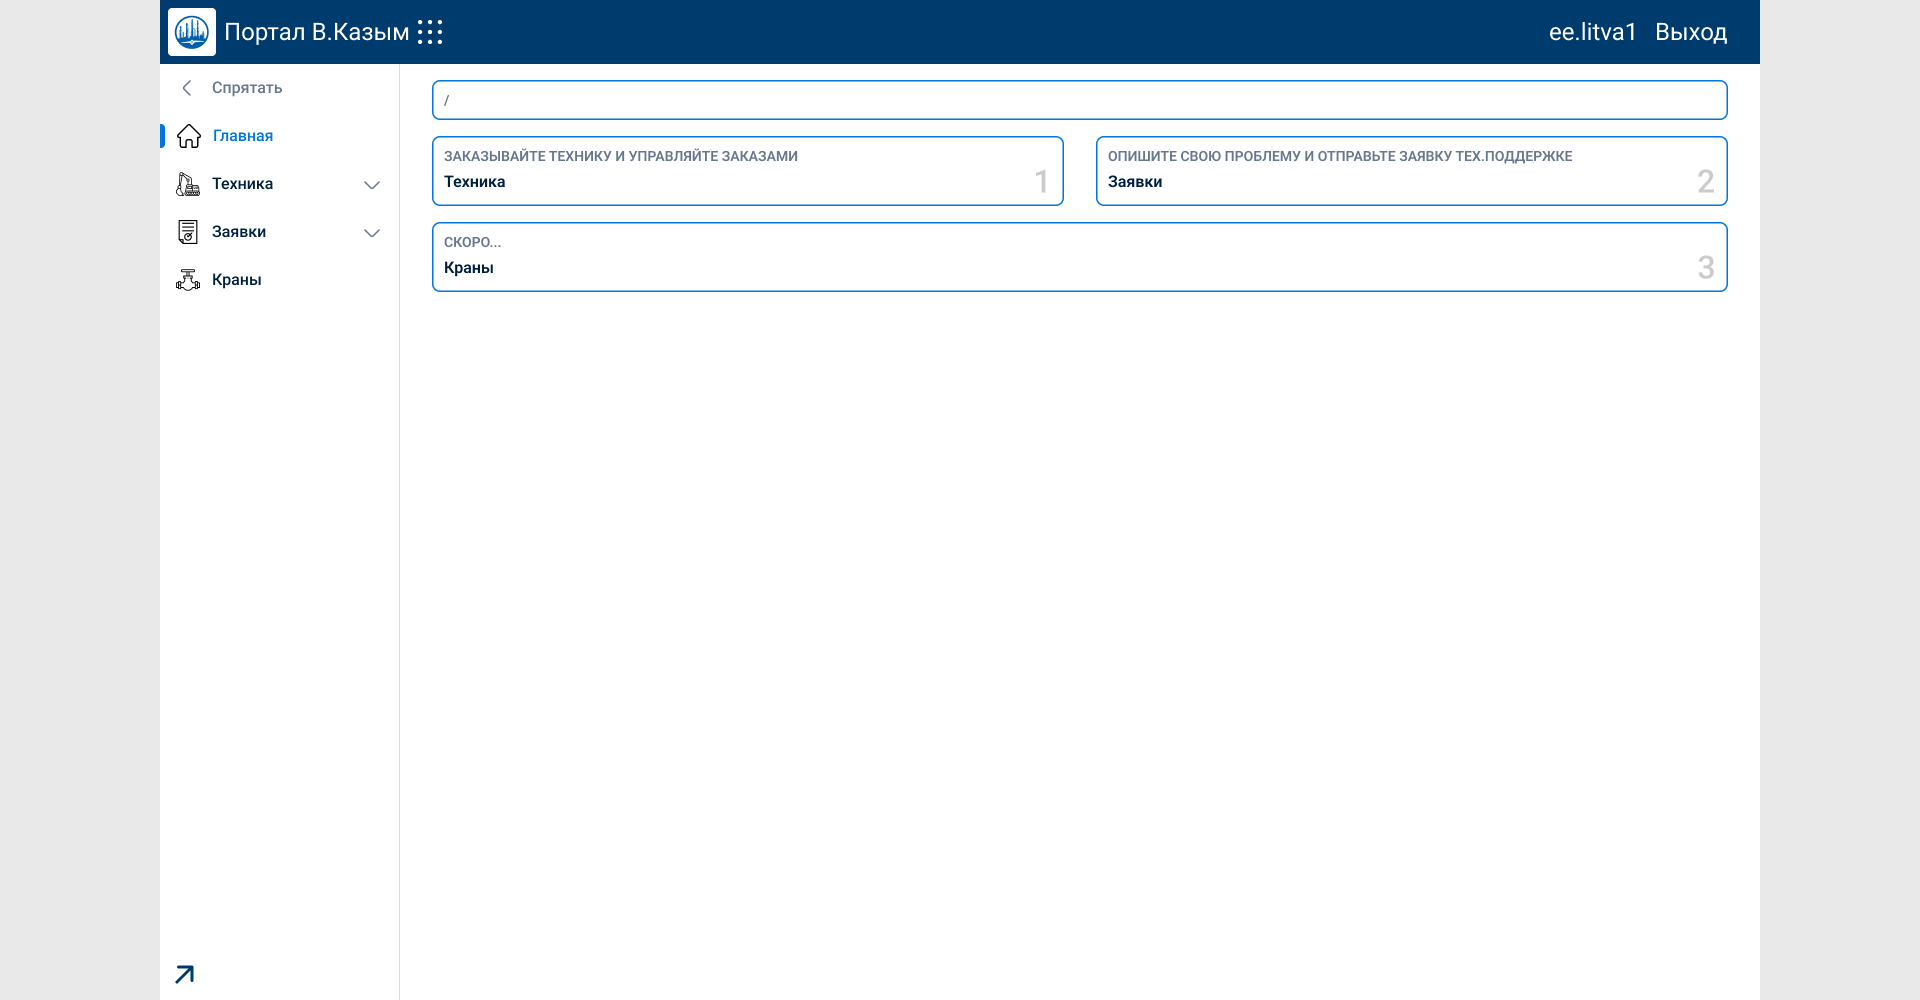
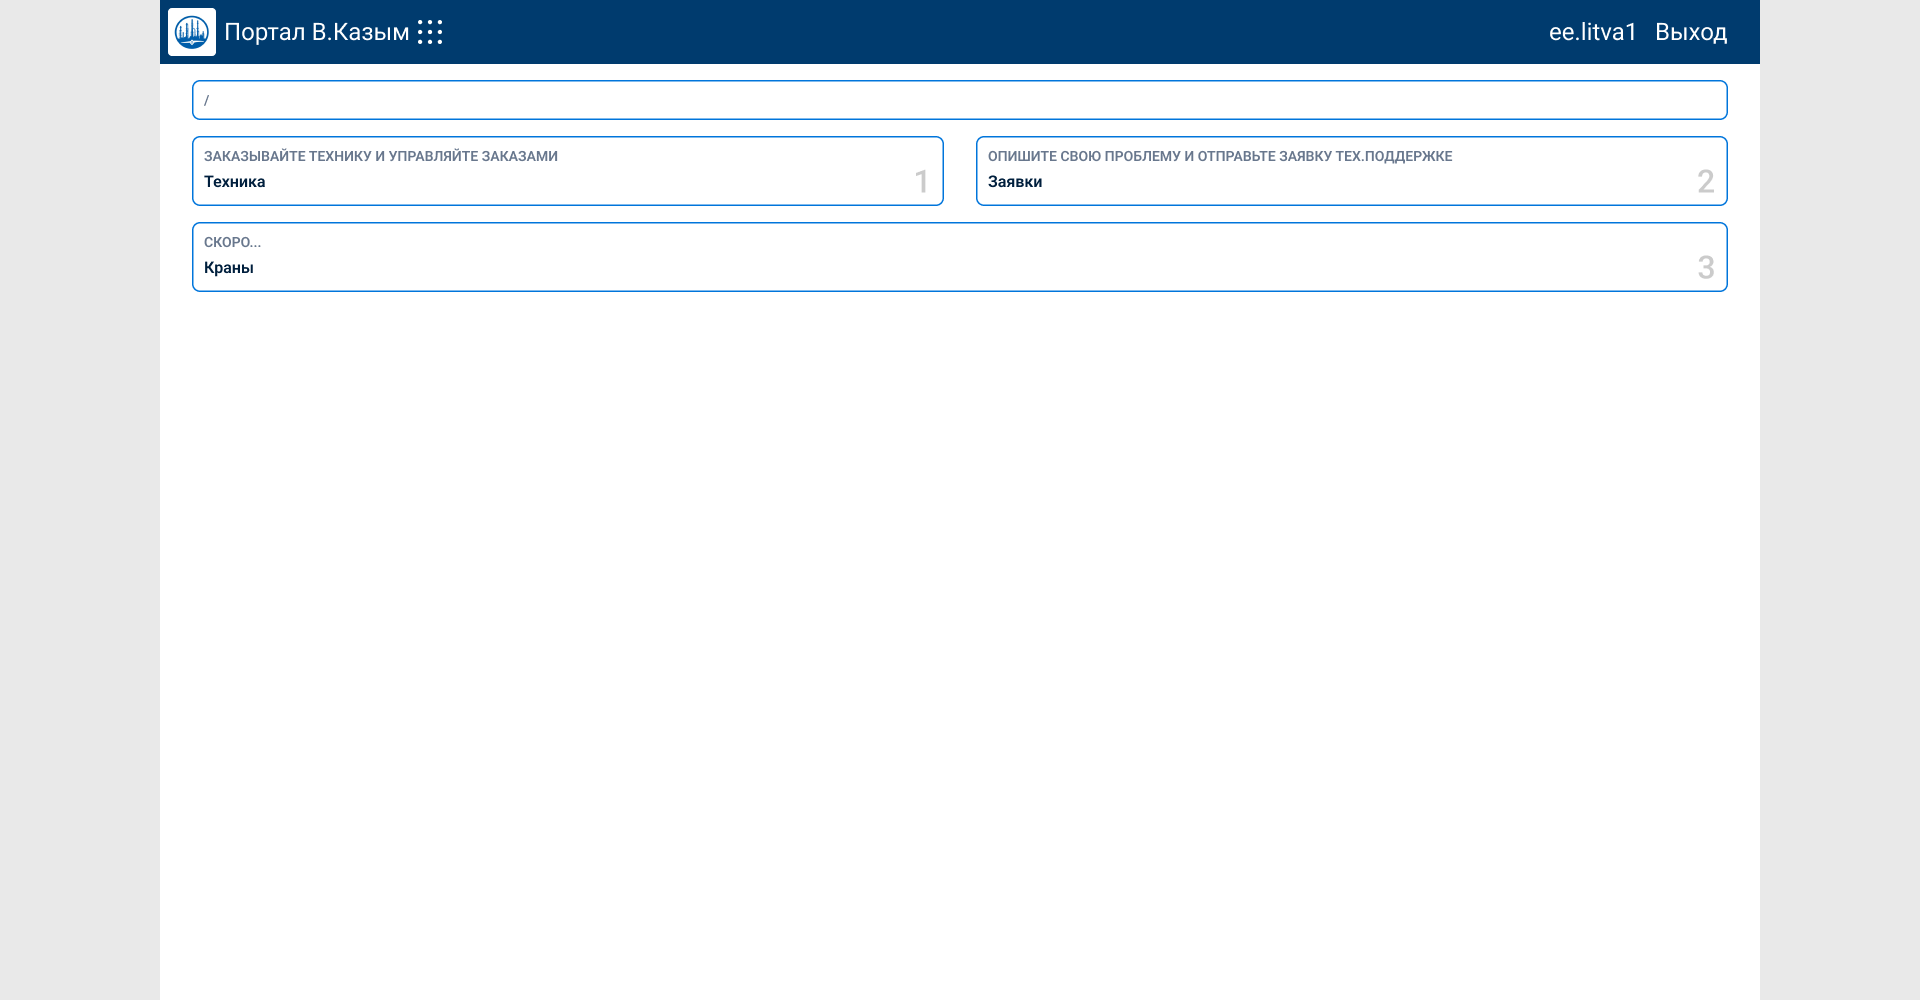
refactor(index): change the page style, add navigation pages

diff --git a/assets/js/index/index.js b/assets/js/index/index.js
@@ -1,0 +1,62 @@
+document.addEventListener('DOMContentLoaded', () => {
+    // Подумать...
+    // const drawBreadcrumb = () => {
+    //     const urlList = new URL(window.location.href).pathname.split('/').slice(2).map((elem) => elem.split('.')[0]).filter((elem) => elem !== 'index');
+    //     const container = document.querySelector('.main-container__breadcrumb').querySelector('p');
+    //     container.innerText = `/${urlList.join('/')}`;
+    //     console.log(`/${urlList.join('/')}`);
+    // };
+    //
+    const drawList = (list) => {
+        const ulElement = document.querySelector('.list');
+        list.forEach((obj, index) => ulElement.appendChild(createLiElement(obj.description, obj.text, index, obj.href, list.length)));
+    };
+    //
+    const createLiElement = (descr, text, index, href, len) => {
+        const liElement = document.createElement('li');
+        const descrElement = document.createElement('p');
+        const textElement = document.createElement('p');
+        const indexElement = document.createElement('span');
+
+        liElement.className = (index === len - 1 && len % 2 !== 0) ? 'list__item list__item-last item d-flex flex-column row-gap-2 rounded-3' : 'list__item item d-flex flex-column row-gap-2 rounded-3';
+        descrElement.className = 'item__description';
+        textElement.className = 'item__text';
+        indexElement.className = 'item__number';
+
+        descrElement.innerText = descr;
+        textElement.innerText = text;
+        indexElement.innerText = index + 1;
+
+        liElement.appendChild(descrElement);
+        liElement.appendChild(textElement);
+        liElement.appendChild(indexElement);
+
+        addEventListElementClick(liElement, href);
+        return liElement;
+    };
+    //
+    const addEventListElementClick = (elem, href) => {
+        elem.addEventListener('click', () => window.location.href = `${BASE_URL}${href}`);
+    };
+
+
+    //
+    const list = [
+        {
+            description: 'ЗАКАЗЫВАЙТЕ ТЕХНИКУ И УПРАВЛЯЙТЕ ЗАКАЗАМИ',
+            text: 'Техника',
+            href: 'techniqueList.php',
+        },
+        {
+            description: 'ОПИШИТЕ СВОЮ ПРОБЛЕМУ И ОТПРАВЬТЕ ЗАЯВКУ ТЕХ.ПОДДЕРЖКЕ',
+            text: 'Заявки',
+            href: 'applicationsList.php',
+        },
+        {
+            description: 'СКОРО...',
+            text: 'Краны',
+            href: 'allCranes.php',
+        },
+    ];
+    drawList(list);
+});

diff --git a/assets/js/techniqueList/techniqueList.js b/assets/js/techniqueList/techniqueList.js
@@ -1,0 +1,60 @@
+document.addEventListener('DOMContentLoaded', () => {
+    //
+    const drawList = (list) => {
+        const ulElement = document.querySelector('.list');
+        list.forEach((obj, index) => ulElement.appendChild(createLiElement(obj.description, obj.text, index, obj.href, list.length)));
+    };
+    //
+    const createLiElement = (descr, text, index, href, len) => {
+        const liElement = document.createElement('li');
+        const descrElement = document.createElement('p');
+        const textElement = document.createElement('p');
+        const indexElement = document.createElement('span');
+
+        liElement.className = (index === len - 1 && len % 2 !== 0) ? 'list__item list__item-last item d-flex flex-column row-gap-2 rounded-3' : 'list__item item d-flex flex-column row-gap-2 rounded-3';
+        descrElement.className = 'item__description';
+        textElement.className = 'item__text';
+        indexElement.className = 'item__number';
+
+        descrElement.innerText = descr;
+        textElement.innerText = text;
+        indexElement.innerText = index + 1;
+
+        liElement.appendChild(descrElement);
+        liElement.appendChild(textElement);
+        liElement.appendChild(indexElement);
+
+        addEventListElementClick(liElement, href);
+        return liElement;
+    };
+    //
+    const addEventListElementClick = (elem, href) => {
+        elem.addEventListener('click', () => window.location.href = `${BASE_URL}${href}`);
+    };
+
+
+    //
+    const list = [
+        {
+            description: 'УЗНАЙТЕ ДОСТУПНУЮ ТЕХНИКУ НА НУЖНЫЕ ДАТЫ.',
+            text: 'Свободная техника',
+            href: 'technique.php',
+        },
+        {
+            description: 'ЗАКАЖИТЕ ТЕХНИКУ НА НУЖНЫЕ ДАТЫ.',
+            text: 'Заказать технику',
+            href: 'Add_technique.php',
+        },
+        {
+            description: 'ВАШИ ЗАКАЗЫ ПО ТЕХНИКЕ, ИХ СТАТУСЫ И ДЕТАЛИ',
+            text: 'Мои заказы',
+            href: 'orderTechnique.php',
+        },
+        {
+            description: 'КОНТРОЛЬ И УПРАВЛЕНИЕ ВСЕМИ ЗАКАЗАМИ ТЕХНИКИ',
+            text: 'Заказанная техника',
+            href: 'allOrders.php',
+        },
+    ];
+    drawList(list);
+});

diff --git a/assets/js/applicationsList/applicationsList.js b/assets/js/applicationsList/applicationsList.js
@@ -1,0 +1,50 @@
+document.addEventListener('DOMContentLoaded', () => {
+    //
+    const drawList = (list) => {
+        const ulElement = document.querySelector('.list');
+        list.forEach((obj, index) => ulElement.appendChild(createLiElement(obj.description, obj.text, index, obj.href, list.length)));
+    };
+    //
+    const createLiElement = (descr, text, index, href, len) => {
+        const liElement = document.createElement('li');
+        const descrElement = document.createElement('p');
+        const textElement = document.createElement('p');
+        const indexElement = document.createElement('span');
+
+        liElement.className = (index === len - 1 && len % 2 !== 0) ? 'list__item list__item-last item d-flex flex-column row-gap-2 rounded-3' : 'list__item item d-flex flex-column row-gap-2 rounded-3';
+        descrElement.className = 'item__description';
+        textElement.className = 'item__text';
+        indexElement.className = 'item__number';
+
+        descrElement.innerText = descr;
+        textElement.innerText = text;
+        indexElement.innerText = index + 1;
+
+        liElement.appendChild(descrElement);
+        liElement.appendChild(textElement);
+        liElement.appendChild(indexElement);
+
+        addEventListElementClick(liElement, href);
+        return liElement;
+    };
+    //
+    const addEventListElementClick = (elem, href) => {
+        elem.addEventListener('click', () => window.location.href = `${BASE_URL}${href}`);
+    };
+
+
+    //
+    const list = [
+        {
+            description: 'ПРОСМОТРИТЕ СПИСОК СВОИХ ЗАЯВОК ИЛИ СОЗДАЙТЕ НОВУЮ',
+            text: 'Мои заявки',
+            href: 'appsForm.php',
+        },
+        {
+            description: 'РЕШЕНИЕ И УПРАВЛЕНИЕ ПОЛЬЗОВАТЕЛЬСКИМИ ЗАЯВКАМИ',
+            text: 'Обработка заявок',
+            href: 'responseAppForm.php',
+        },
+    ];
+    drawList(list);
+});

diff --git a/assets/css/index/index.css b/assets/css/index/index.css
@@ -1,0 +1,45 @@
+.main-container {
+    height: 100vh;
+    background-color: #fff;
+}
+.main-container__content {
+    padding-left: 2rem;
+    padding-right: 2rem;
+}
+.main-container__breadcrumb {
+    padding: 0.75rem;
+    border: 1.5px solid rgba(0, 117, 219, 1);
+    font-weight: 700;
+    font-size: 0.875rem;
+    line-height: 1rem;
+}
+.list__item {
+    position: relative;
+    width: calc(50% - 0.5rem);
+    padding: 0.75rem;
+    border: 1.5px solid rgba(0, 117, 219, 1);
+    cursor: pointer;
+}
+.list__item-last {
+    width: 100%;
+}
+.item__description {
+    font-weight: 700;
+    font-size: 0.875rem;
+    line-height: 1rem;
+    color: rgba(104, 119, 141, 1);
+}
+.item__text {
+    font-weight: 700;
+    font-size: 1rem;
+    line-height: 1.5rem;
+    color: rgba(0, 31, 61, 1);
+}
+.item__number {
+    position: absolute;
+    bottom: 0.75rem;
+    right: 0.75rem;
+    font-size: 2rem;
+    line-height: 1.5rem;
+    color: rgba(203, 203, 203, 1);
+}

diff --git a/assets/js/header/header.js b/assets/js/header/header.js
@@ -11,9 +11,9 @@ document.addEventListener('DOMContentLoaded', () => {
         SESSION.length != 0 ? header.appendChild(drawDataAcc()) : header.appendChild(drawLink(href, text));
     };
     //
-    const drawLink = (href, text) => {
+    const drawLink = (href, text, style = 'header-link') => {
         const link = document.createElement('a');
-        link.className = "header-link";
+        link.className = style;
         link.setAttribute('href', href);
         link.innerText = text;
         return link;
@@ -30,7 +30,7 @@ document.addEventListener('DOMContentLoaded', () => {
 
         const href = `${BASE_URL}logout.php`;
         container.appendChild(nickName);
-        container.appendChild(drawLink(href, 'Выход'));
+        container.appendChild(drawLink(href, 'Выход', 'header-link link-danger'));
         return container;
     };
 

diff --git a/assets/css/mainStyles.css b/assets/css/mainStyles.css
@@ -18,6 +18,11 @@ h1,h2,h3,h4,h5,h6,p {
   margin: 0;
 }
 
+ul {
+  padding: 0;
+  margin: 0;
+}
+
 a {
   text-decoration: none;
   color: inherit;

diff --git a/applicationsList.php b/applicationsList.php
@@ -1,0 +1,41 @@
+<?php
+
+    include('path.php');
+    session_start();
+
+?>
+
+<!doctype html>
+<html lang="ru">
+
+<head>
+    <meta charset="utf-8">
+    <meta name="viewport" content="width=device-width, initial-scale=1">
+    <link href="assets/css/bootstrap.min.css" rel="stylesheet">
+    <link rel="stylesheet" href="assets/css/normalize.css">
+    <link rel="stylesheet" href="assets/css/mainStyles.css">
+    <link rel="stylesheet" href="assets/css/style.css">
+    <link rel="stylesheet" href="assets/css/header/header.css">
+    <link rel="stylesheet" href="assets/css/index/index.css">
+    <script>
+        const SESSION = <?php echo json_encode($_SESSION); ?>;
+        const BASE_URL = <?php echo json_encode(BASE_URL); ?>;
+    </script>
+    <script defer src="<?=BASE_URL?>assets/js/header/header.js"></script>
+    <script defer src="<?=BASE_URL?>assets/js/applicationsList/applicationsList.js"></script>
+    <title>Портал В.Казым</title>
+</head>
+<body>
+    <script src="assets/js/bootstrap.bundle.min.js"></script>
+    <?php include("components/header.php"); ?>
+    <div class="main-container d-flex flex-row col-12">
+        <div class="future"></div>
+        <div class="main-container__content d-flex flex-column row-gap-3 col-12 py-3">
+            <div class="main-container__breadcrumb rounded-3"><p>/Заявки/</p></div>
+            <nav class="main-container__nav">
+                <ul class="list d-flex flex-row flex-wrap gap-3 col-12"></ul>
+            </nav>
+        </div>
+    </div>
+</body>
+</html>

diff --git a/techniqueList.php b/techniqueList.php
@@ -1,0 +1,41 @@
+<?php
+
+include('path.php');
+session_start();
+
+?>
+
+<!doctype html>
+<html lang="ru">
+
+<head>
+    <meta charset="utf-8">
+    <meta name="viewport" content="width=device-width, initial-scale=1">
+    <link href="assets/css/bootstrap.min.css" rel="stylesheet">
+    <link rel="stylesheet" href="assets/css/normalize.css">
+    <link rel="stylesheet" href="assets/css/mainStyles.css">
+    <link rel="stylesheet" href="assets/css/style.css">
+    <link rel="stylesheet" href="assets/css/header/header.css">
+    <link rel="stylesheet" href="assets/css/index/index.css">
+    <script>
+        const SESSION = <?php echo json_encode($_SESSION); ?>;
+        const BASE_URL = <?php echo json_encode(BASE_URL); ?>;
+    </script>
+    <script defer src="<?=BASE_URL?>assets/js/header/header.js"></script>
+    <script defer src="<?=BASE_URL?>assets/js/techniqueList/techniqueList.js"></script>
+    <title>Портал В.Казым</title>
+</head>
+<body>
+<script src="assets/js/bootstrap.bundle.min.js"></script>
+<?php include("components/header.php"); ?>
+<div class="main-container d-flex flex-row col-12">
+    <div class="future"></div>
+    <div class="main-container__content d-flex flex-column row-gap-3 col-12 py-3">
+        <div class="main-container__breadcrumb rounded-3"><p>/Техника/</p></div>
+        <nav class="main-container__nav">
+            <ul class="list d-flex flex-row flex-wrap gap-3 col-12"></ul>
+        </nav>
+    </div>
+</div>
+</body>
+</html>

diff --git a/index.php b/index.php
@@ -2,8 +2,7 @@
 
     include('path.php');
     session_start();
-    $pageTitle = "Главная";
-    $menuItems = [];
+
 ?>
 
 <!doctype html>
@@ -17,15 +16,26 @@
     <link rel="stylesheet" href="assets/css/mainStyles.css">
     <link rel="stylesheet" href="assets/css/style.css">
     <link rel="stylesheet" href="assets/css/header/header.css">
-    <title>Портал В.Казым</title><script>
+    <link rel="stylesheet" href="assets/css/index/index.css">
+    <script>
         const SESSION = <?php echo json_encode($_SESSION); ?>;
         const BASE_URL = <?php echo json_encode(BASE_URL); ?>;
     </script>
-    <script src="<?=BASE_URL?>assets/js/header/header.js" />
+    <script defer src="<?=BASE_URL?>assets/js/header/header.js"></script>
+    <script defer src="<?=BASE_URL?>assets/js/index/index.js"></script>
+    <title>Портал В.Казым</title>
 </head>
 <body>
     <script src="assets/js/bootstrap.bundle.min.js"></script>
     <?php include("components/header.php"); ?>
-    <div></div>
+    <div class="main-container d-flex flex-row col-12">
+        <div class="future"></div>
+        <div class="main-container__content d-flex flex-column row-gap-3 col-12 py-3">
+            <div class="main-container__breadcrumb rounded-3"><p>/</p></div>
+            <nav class="main-container__nav">
+                <ul class="list d-flex flex-row flex-wrap gap-3 col-12"></ul>
+            </nav>
+        </div>
+    </div>
 </body>
 </html>

diff --git a/log.php b/log.php
@@ -22,7 +22,7 @@
         const SESSION = <?php echo json_encode($_SESSION); ?>;
         const BASE_URL = <?php echo json_encode(BASE_URL); ?>;
     </script>
-    <script src="<?=BASE_URL?>assets/js/header/header.js" />
+    <script defer src="<?=BASE_URL?>assets/js/header/header.js" />
     <title>Портал В.Казым</title>
 </head>
 <script src="assets/js/bootstrap.bundle.min.js"></script>

diff --git a/reg.php b/reg.php
@@ -24,7 +24,7 @@
         const SESSION = <?php echo json_encode($_SESSION); ?>;
         const BASE_URL = <?php echo json_encode(BASE_URL); ?>;
     </script>
-    <script src="<?=BASE_URL?>assets/js/header/header.js" />
+    <script defer src="<?=BASE_URL?>assets/js/header/header.js"></script>
     <title>Портал В.Казым</title>
 </head>
 <body>
